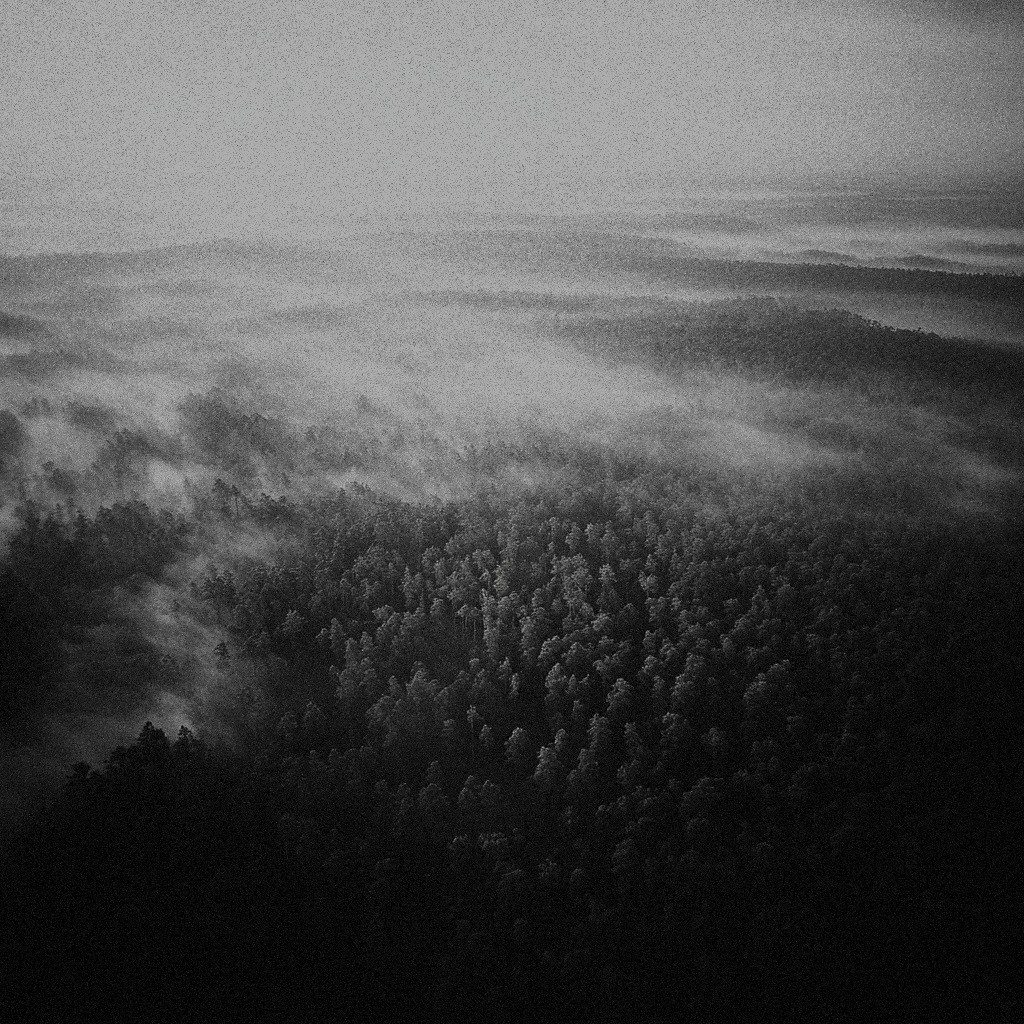
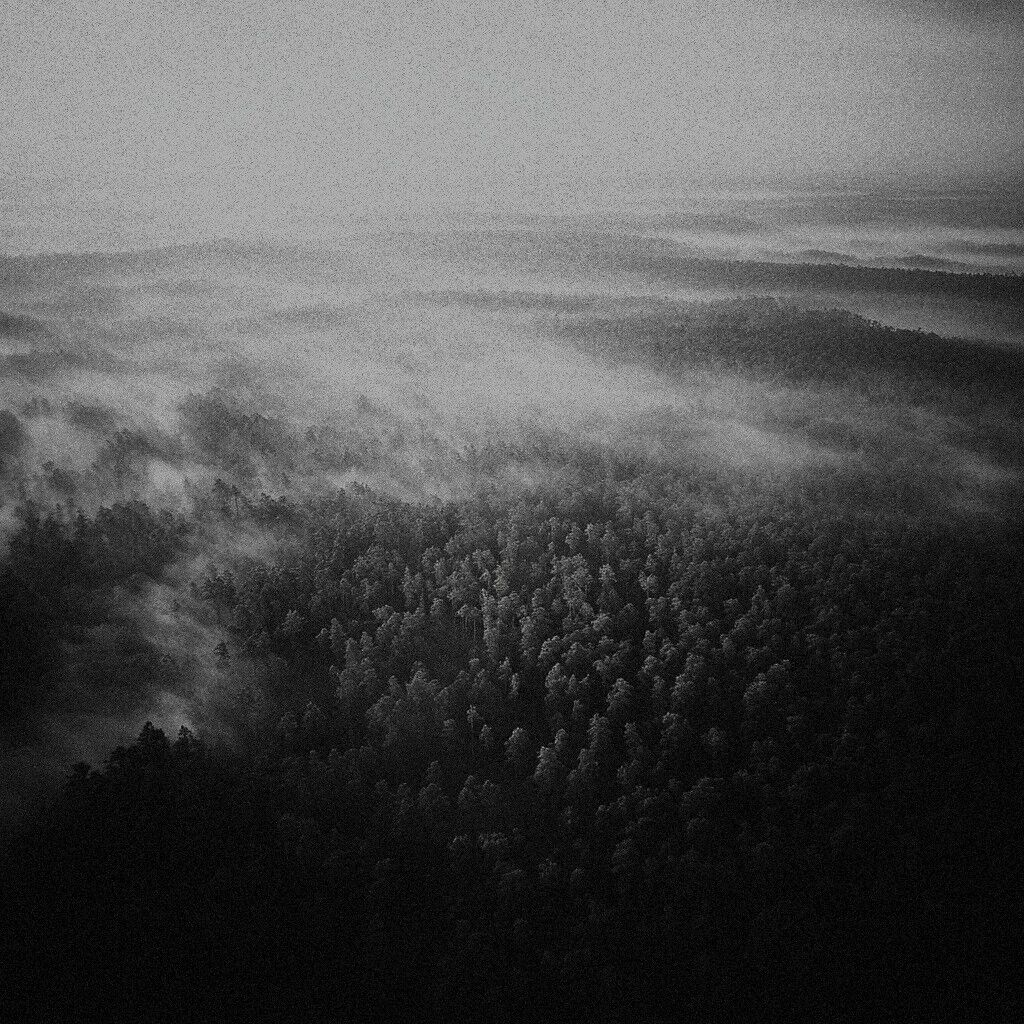
Optimize images and add print stylesheet
Image optimization:
- Compressed and resized JPG images (max 1920px width, quality 80-85%)
- Created WebP versions for all background images
- Updated CSS to use image-set() for WebP with JPEG/PNG fallback
- Updated hero image to use <picture> element with WebP source
- Removed unused large images (~38MB saved)
- Total active images reduced from ~51MB to ~6.7MB (excl. video)

Print stylesheet:
- Hide interactive elements (snow, fog, navigation, animations)
- Reset colors to black on white for readability
- Remove background images to save ink
- Linear content flow (no full-page sections)
- Proper page breaks (bio and contact start on new pages)
- Display URLs after links for reference
- A4 page size with 2cm margins

diff --git a/css/styles.css b/css/styles.css
@@ -322,6 +322,10 @@ p {
 
 #bio.bg-loaded {
     background-image: url('../images/bio-bg.jpg');
+    background-image: image-set(
+        url('../images/bio-bg.webp') type('image/webp'),
+        url('../images/bio-bg.jpg') type('image/jpeg')
+    );
 }
 
 #contact {
@@ -346,6 +350,10 @@ p {
 
 #services1.bg-loaded {
     background-image: url('../images/services1-bg.jpg');
+    background-image: image-set(
+        url('../images/services1-bg.webp') type('image/webp'),
+        url('../images/services1-bg.jpg') type('image/jpeg')
+    );
 }
 
 #services3 {
@@ -360,6 +368,10 @@ p {
 
 #services3.bg-loaded {
     background-image: url('../images/library.png');
+    background-image: image-set(
+        url('../images/library.webp') type('image/webp'),
+        url('../images/library.png') type('image/png')
+    );
 }
 
 #services5 {
@@ -374,6 +386,10 @@ p {
 
 #services5.bg-loaded {
     background-image: url('../images/services0-bg.jpg');
+    background-image: image-set(
+        url('../images/services0-bg.webp') type('image/webp'),
+        url('../images/services0-bg.jpg') type('image/jpeg')
+    );
 }
 
 #services6 {
@@ -430,6 +446,10 @@ p {
 
 #jh.bg-loaded {
     background-image: url('../images/jh.jpg');
+    background-image: image-set(
+        url('../images/jh.webp') type('image/webp'),
+        url('../images/jh.jpg') type('image/jpeg')
+    );
 }
 
 /* Mobile Styles */
@@ -761,4 +781,127 @@ a:focus,
   pointer-events: none;
   z-index: 3;
   opacity: 0.95;
+}
+
+/* ========================================
+   PRINT STYLES
+   ======================================== */
+@media print {
+  /* Reset page layout */
+  *,
+  *::before,
+  *::after {
+    background: transparent !important;
+    color: #000 !important;
+    box-shadow: none !important;
+    text-shadow: none !important;
+  }
+
+  /* Hide interactive and decorative elements */
+  .navbar,
+  .language-switcher,
+  .snow-toggle,
+  #snow-canvas,
+  #fog-canvas,
+  .hero-image,
+  .snow-section,
+  .snow-pile-canvas,
+  .snow-back-top,
+  .snow-hint,
+  #back-to-top,
+  video,
+  canvas {
+    display: none !important;
+  }
+
+  /* Page setup */
+  @page {
+    margin: 2cm;
+    size: A4;
+  }
+
+  html, body {
+    height: auto !important;
+    overflow: visible !important;
+    font-size: 12pt;
+    line-height: 1.5;
+  }
+
+  /* Main content flow */
+  #main-content {
+    height: auto !important;
+    overflow: visible !important;
+    scroll-snap-type: none;
+  }
+
+  .section {
+    min-height: auto !important;
+    height: auto !important;
+    padding: 1.5em 0 !important;
+    page-break-inside: avoid;
+    scroll-snap-align: none;
+    display: block !important;
+  }
+
+  /* Typography */
+  h1, h2 {
+    font-size: 18pt;
+    margin-bottom: 0.5em;
+    page-break-after: avoid;
+  }
+
+  p {
+    font-size: 11pt;
+    line-height: 1.6;
+    orphans: 3;
+    widows: 3;
+  }
+
+  /* Links */
+  a {
+    text-decoration: underline;
+  }
+
+  a[href^="http"]::after {
+    content: " (" attr(href) ")";
+    font-size: 9pt;
+  }
+
+  a[href^="mailto"]::after {
+    content: " (" attr(href) ")";
+    font-size: 9pt;
+  }
+
+  /* About and services sections */
+  .about-content,
+  .services-content,
+  .bio-content,
+  .contact-content {
+    max-width: 100%;
+    padding: 0;
+  }
+
+  /* Contact section - keep visible */
+  .contact-info {
+    display: block;
+  }
+
+  /* Hero section - show as header */
+  #home {
+    padding: 0 !important;
+    text-align: center;
+    border-bottom: 1px solid #000;
+    margin-bottom: 1em;
+  }
+
+  .hero-content {
+    position: static;
+    transform: none;
+    padding: 1em 0;
+  }
+
+  /* Page breaks */
+  #about { page-break-before: avoid; }
+  #bio { page-break-before: always; }
+  #contact { page-break-before: always; }
 }

diff --git a/index.html b/index.html
@@ -85,7 +85,7 @@
     <!-- Home Section -->
     <section id="home" class="section" aria-labelledby="home-heading">
       <picture class="hero-image">
-
+        <source srcset="images/services5-bg.webp" type="image/webp">
         <img src="images/services5-bg.jpg" alt="Hero background">
       </picture>
       <div class="hero-content">
